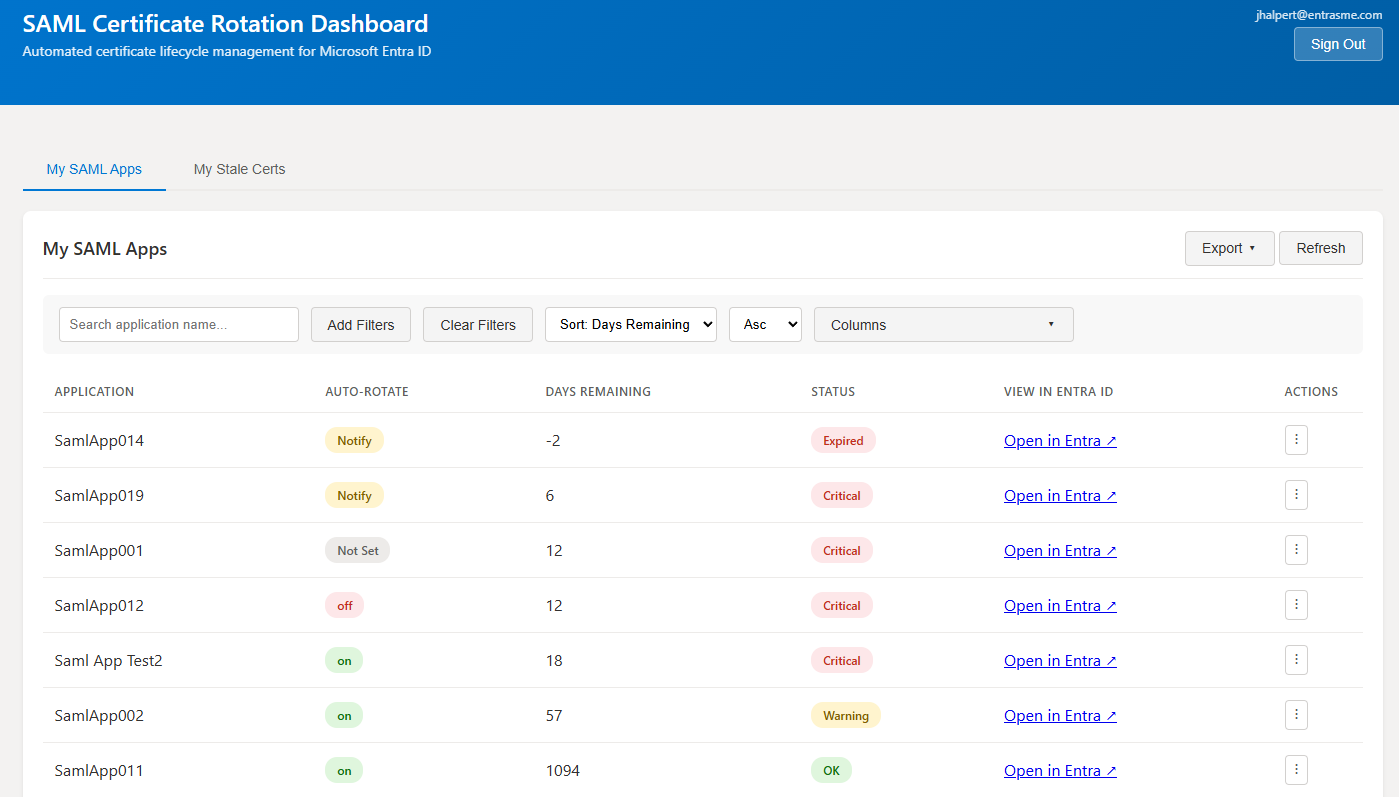
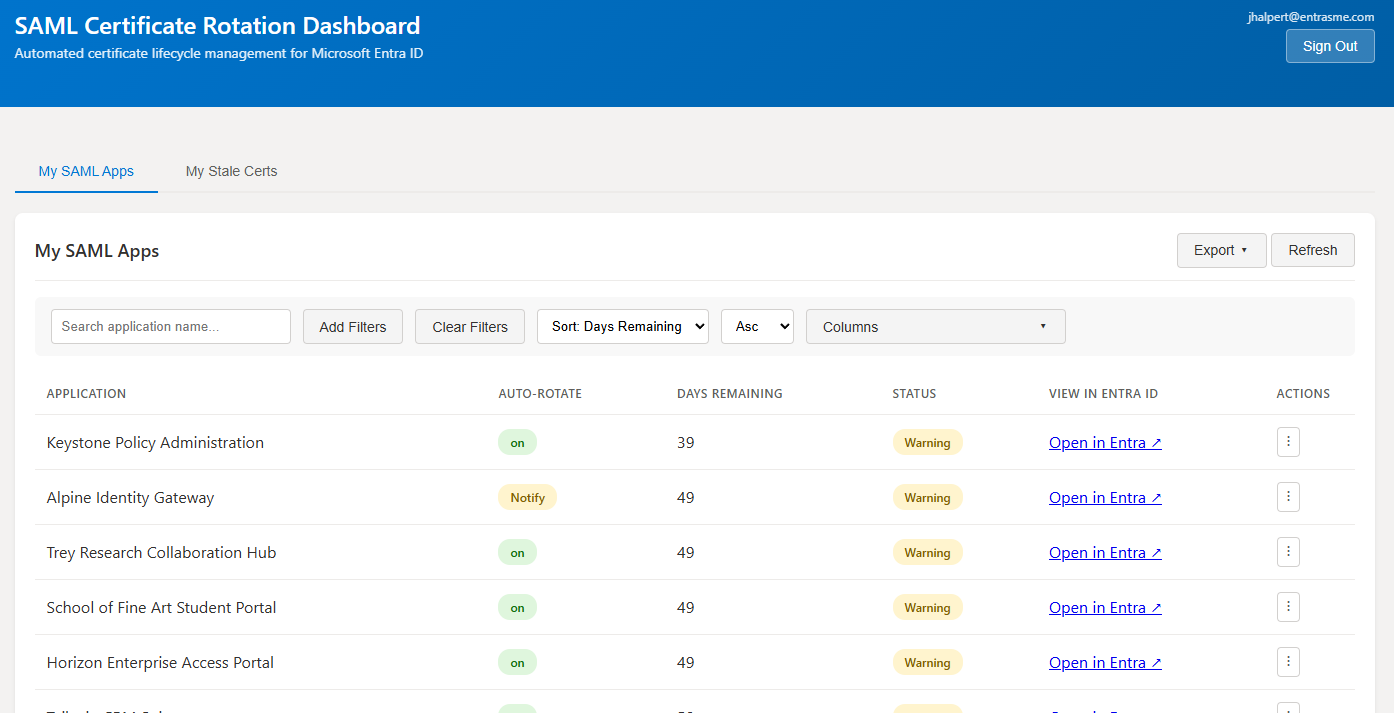
Fix My SAML Apps status thresholds and update dashboard screenshots

diff --git a/dashboard/app.js b/dashboard/app.js
@@ -499,12 +499,10 @@ function onAppFilterChanged() {
 
 function getComputedAppStatus(app) {
     const daysUntilExpiry = typeof app.daysUntilExpiry === 'number' ? app.daysUntilExpiry : null;
-    const createThreshold = typeof app.createCertDaysBeforeExpiry === 'number'
-        ? app.createCertDaysBeforeExpiry
-        : createCertDaysThreshold;
-    const activateThreshold = typeof app.activateCertDaysBeforeExpiry === 'number'
-        ? app.activateCertDaysBeforeExpiry
-        : activateCertDaysThreshold;
+    const appCreateThreshold = Number(app.createCertDaysBeforeExpiry ?? app.CreateCertDaysBeforeExpiry);
+    const appActivateThreshold = Number(app.activateCertDaysBeforeExpiry ?? app.ActivateCertDaysBeforeExpiry);
+    const createThreshold = Number.isFinite(appCreateThreshold) ? appCreateThreshold : createCertDaysThreshold;
+    const activateThreshold = Number.isFinite(appActivateThreshold) ? appActivateThreshold : activateCertDaysThreshold;
 
     if (daysUntilExpiry === null) {
         return 'ok';
@@ -1126,6 +1124,16 @@ async function loadMyApps(force = true) {
     container.innerHTML = '<div class="loading">Loading your sponsored applications...</div>';
     try {
         const result = await apiCall('dashboard/my-apps');
+
+        const globalCreateThreshold = Number(result.globalCreateCertDaysBeforeExpiry ?? result.GlobalCreateCertDaysBeforeExpiry);
+        const globalActivateThreshold = Number(result.globalActivateCertDaysBeforeExpiry ?? result.GlobalActivateCertDaysBeforeExpiry);
+        if (Number.isFinite(globalCreateThreshold)) {
+            createCertDaysThreshold = globalCreateThreshold;
+        }
+        if (Number.isFinite(globalActivateThreshold)) {
+            activateCertDaysThreshold = globalActivateThreshold;
+        }
+
         myAppsRawResult = result;
         myAppsData = result.apps || [];
         myAppsSponsorCanRotate = result.sponsorsCanRotateCerts === true;

diff --git a/src/SamlCertRotation/Functions/AppFunctions.cs b/src/SamlCertRotation/Functions/AppFunctions.cs
@@ -175,8 +175,11 @@ public class AppFunctions : DashboardFunctionBase
             var sponsorsCanRotateCertsTask = _policyService.GetSponsorsCanRotateCertsEnabledAsync();
             var sponsorsCanUpdatePolicyTask = _policyService.GetSponsorsCanUpdatePolicyEnabledAsync();
             var sponsorsCanEditSponsorsTask = _policyService.GetSponsorsCanEditSponsorsEnabledAsync();
+            var globalPolicyTask = _policyService.GetGlobalPolicyAsync();
 
-            await Task.WhenAll(sponsorsCanRotateCertsTask, sponsorsCanUpdatePolicyTask, sponsorsCanEditSponsorsTask);
+            await Task.WhenAll(sponsorsCanRotateCertsTask, sponsorsCanUpdatePolicyTask, sponsorsCanEditSponsorsTask, globalPolicyTask);
+
+            var globalPolicy = globalPolicyTask.Result;
 
             // Fix #9: Use .Result after Task.WhenAll since tasks are guaranteed complete
             return await CreateJsonResponse(req, new
@@ -184,7 +187,9 @@ public class AppFunctions : DashboardFunctionBase
                 apps = appsWithCerts,
                 sponsorsCanRotateCerts = sponsorsCanRotateCertsTask.Result,
                 sponsorsCanUpdatePolicy = sponsorsCanUpdatePolicyTask.Result,
-                sponsorsCanEditSponsors = sponsorsCanEditSponsorsTask.Result
+                sponsorsCanEditSponsors = sponsorsCanEditSponsorsTask.Result,
+                globalCreateCertDaysBeforeExpiry = globalPolicy.CreateCertDaysBeforeExpiry,
+                globalActivateCertDaysBeforeExpiry = globalPolicy.ActivateCertDaysBeforeExpiry
             });
         }
         catch (Exception ex)
